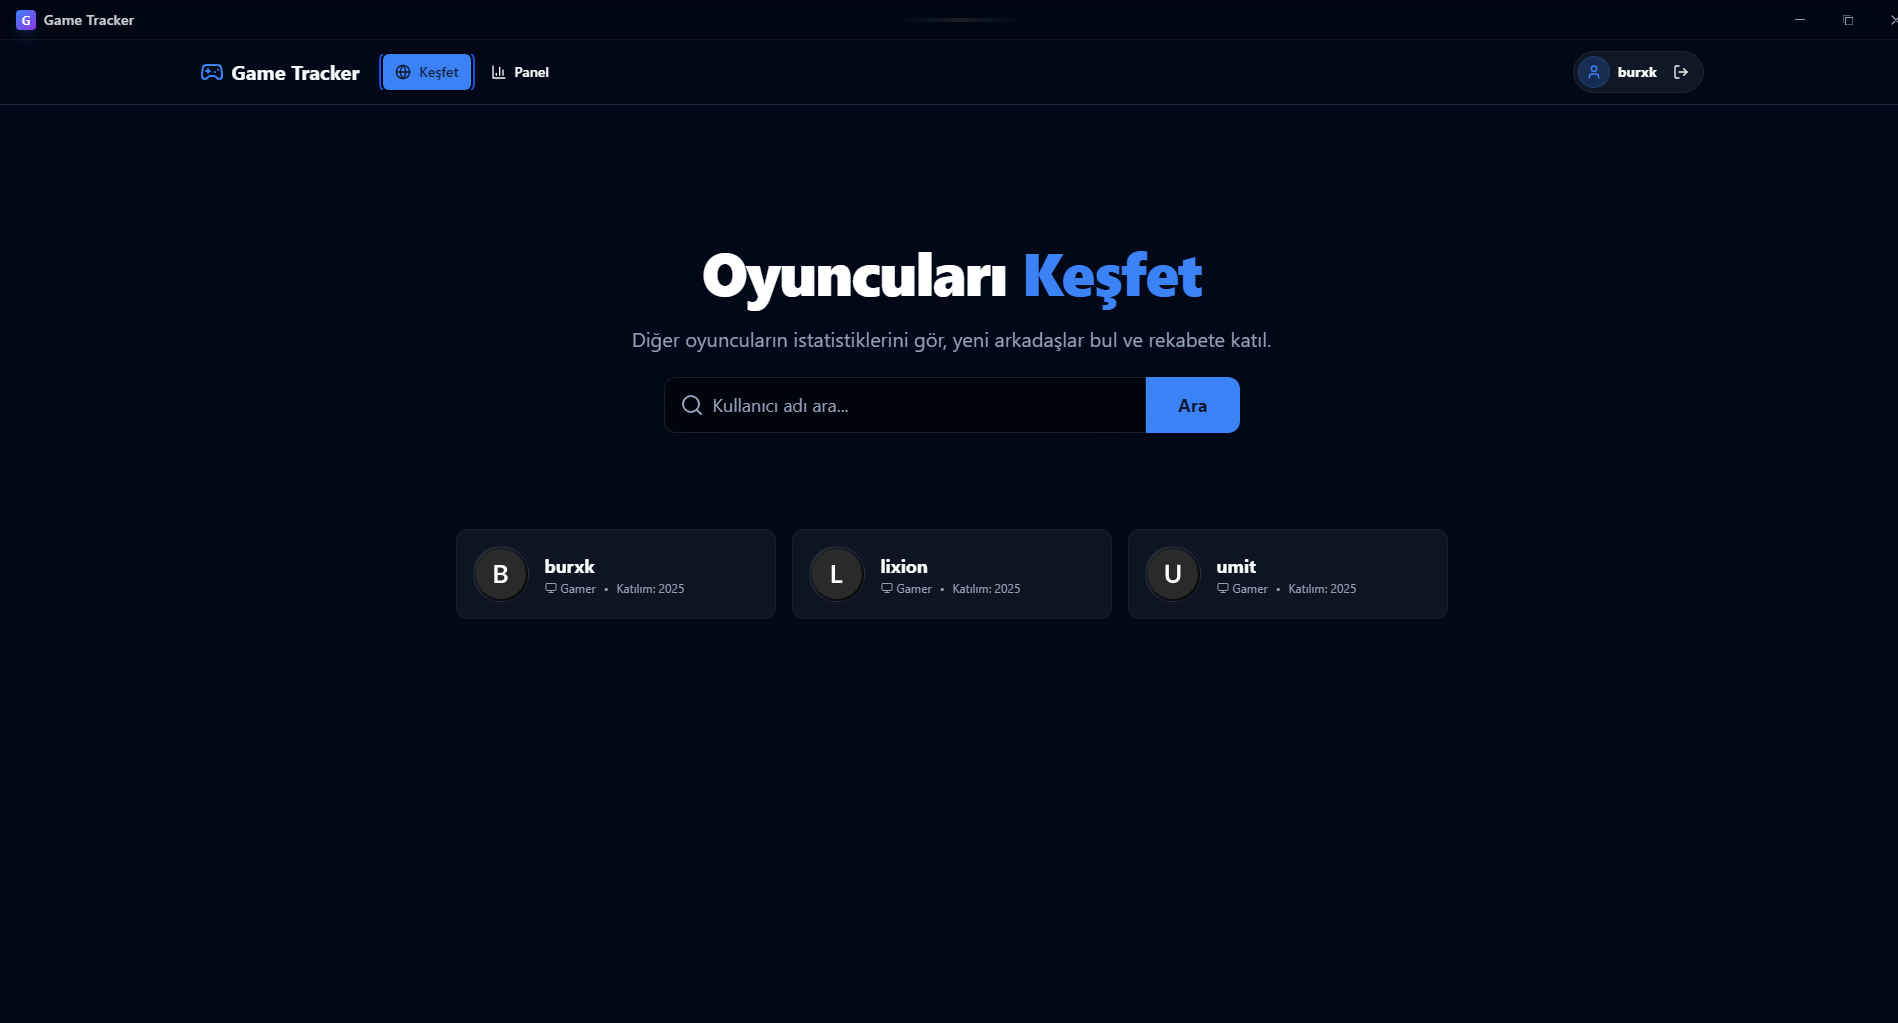
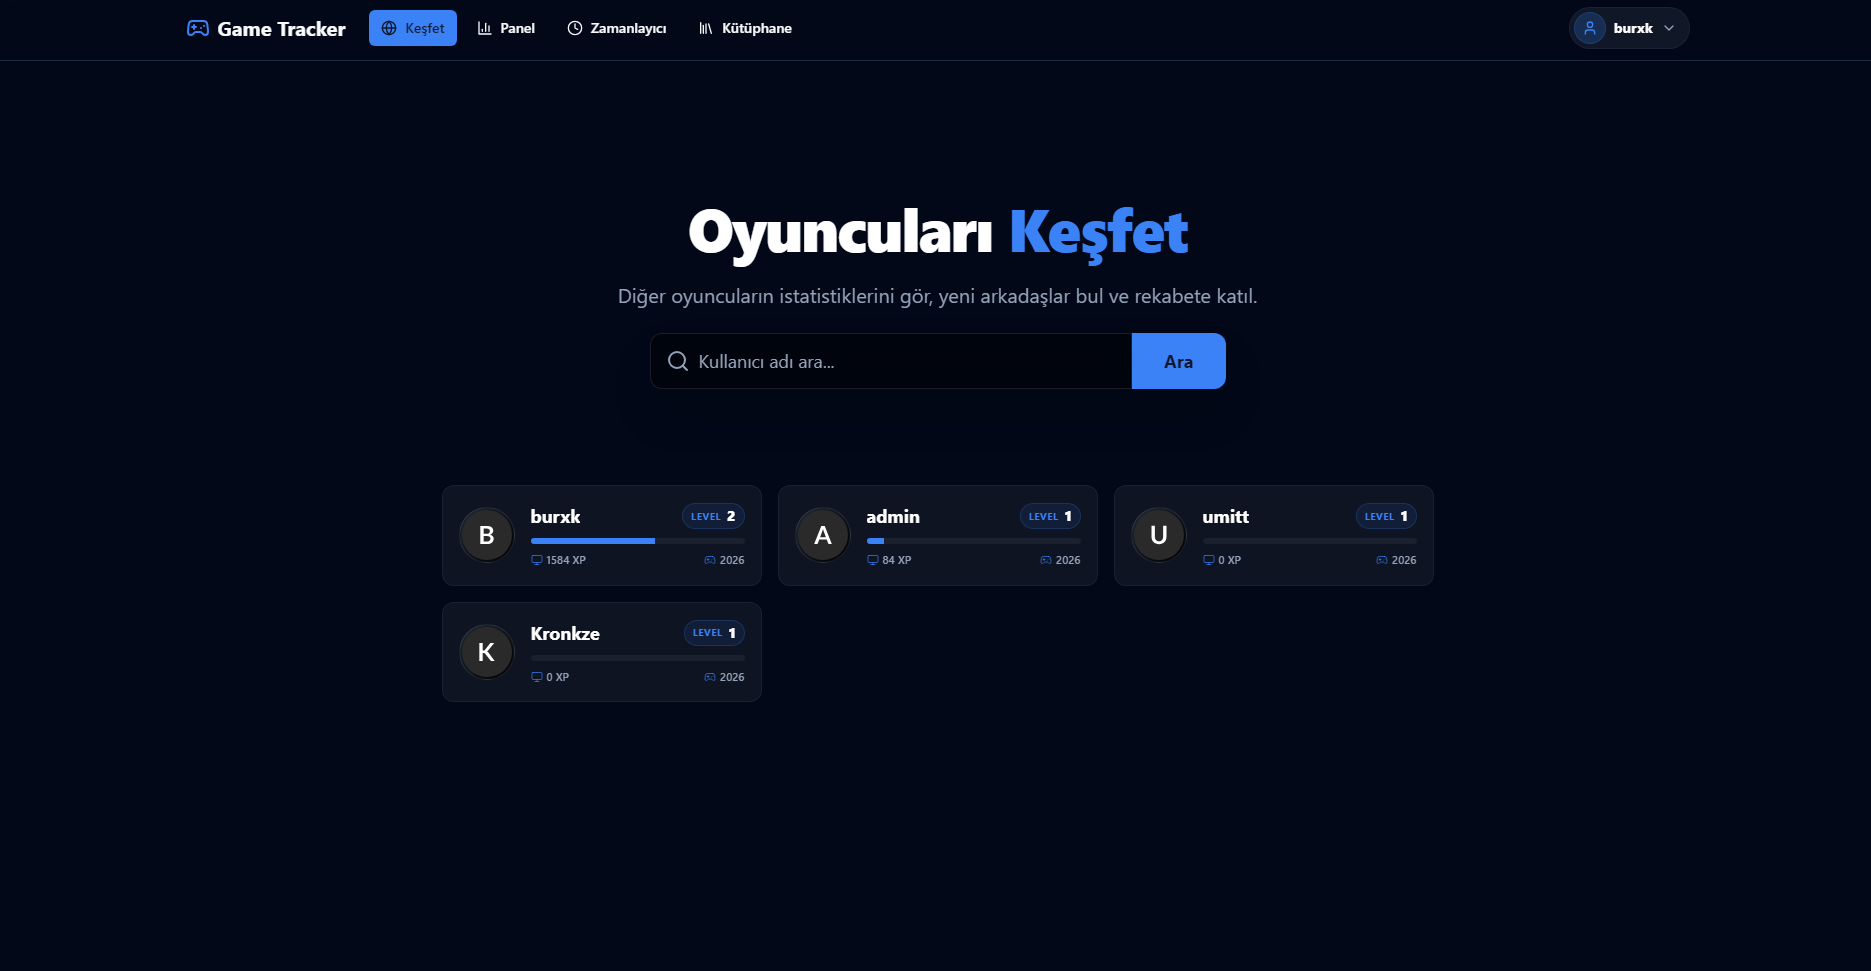
add images

diff --git a/README.md b/README.md
@@ -10,7 +10,8 @@ The application is not for downloading games; it allows you to take screenshots 
 ## Dashoard Page
 The Dashboard Page allows you to access statistics for the games you've played. The "_Playing_" section is also displayed on this page.
 
-<img src="assets/images/dashboard_page_v1.0.3.png" alt="Dashoard Page" width="600"/>
+<img src="assets/images/dashboard_page_1.png" alt="Dashoard Page" width="600"/>
+<img src="assets/images/dashboard_page_2.png" alt="Dashoard Page" width="600"/>
 
 ## Discover Page
 You can explore and search other players' profiles.
